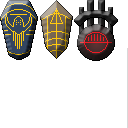
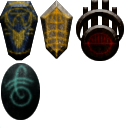
New artifact sprites, ping sound for handheld sonar, fixed newlines multiplying in GUITextBlocks every time the block is resized

diff --git a/Subsurface/Source/GUI/GUITextBlock.cs b/Subsurface/Source/GUI/GUITextBlock.cs
@@ -17,6 +17,8 @@ namespace Barotrauma
 
         protected Color textColor;
 
+        private string wrappedText;
+
         public delegate string TextGetterHandler();
         public TextGetterHandler TextGetter;
 
@@ -40,6 +42,7 @@ namespace Barotrauma
             set
             {
                 text = value;
+                wrappedText = value;
                 SetTextPos();
             }
         }
@@ -159,21 +162,16 @@ namespace Barotrauma
         {
             if (text==null) return;
 
+            wrappedText = text;
+
            Vector2 size = MeasureText(text);
             
             if (Wrap && rect.Width>0)
             {
-                //text = text.Replace("\n"," ");
-                text = ToolBox.WrapText(text, rect.Width - padding.X - padding.Z, Font);
+                wrappedText = ToolBox.WrapText(text, rect.Width - padding.X - padding.Z, Font);
 
-                Vector2 newSize = MeasureText(text);
+                Vector2 newSize = MeasureText(wrappedText);
 
-                //Rectangle newRect = rect;
-
-                //newRect.Width += (int)(newSize.X-size.X);
-                //newRect.Height += (int)(newSize.Y - size.Y);
-
-                //Rect = newRect;
                 size = newSize;
             }
 
@@ -204,9 +202,9 @@ namespace Barotrauma
             textPos.X = (int)textPos.X;
             textPos.Y = (int)textPos.Y;
 
-            if (text.Contains("\n"))
+            if (wrappedText.Contains("\n"))
             {
-                string[] lines = text.Split('\n');
+                string[] lines = wrappedText.Split('\n');
                 Vector2 lastLineSize = MeasureText(lines[lines.Length-1]);
                 caretPos = new Vector2(rect.X + lastLineSize.X, rect.Y + size.Y - lastLineSize.Y) + textPos - origin;
             }
@@ -256,7 +254,7 @@ namespace Barotrauma
             if (!string.IsNullOrEmpty(text))
             {
                 spriteBatch.DrawString(Font,
-                    text,
+                    Wrap ? wrappedText : text,
                     new Vector2(rect.X, rect.Y) + textPos + offset,
                     textColor * (textColor.A / 255.0f),
                     0.0f, origin, 1.0f,
